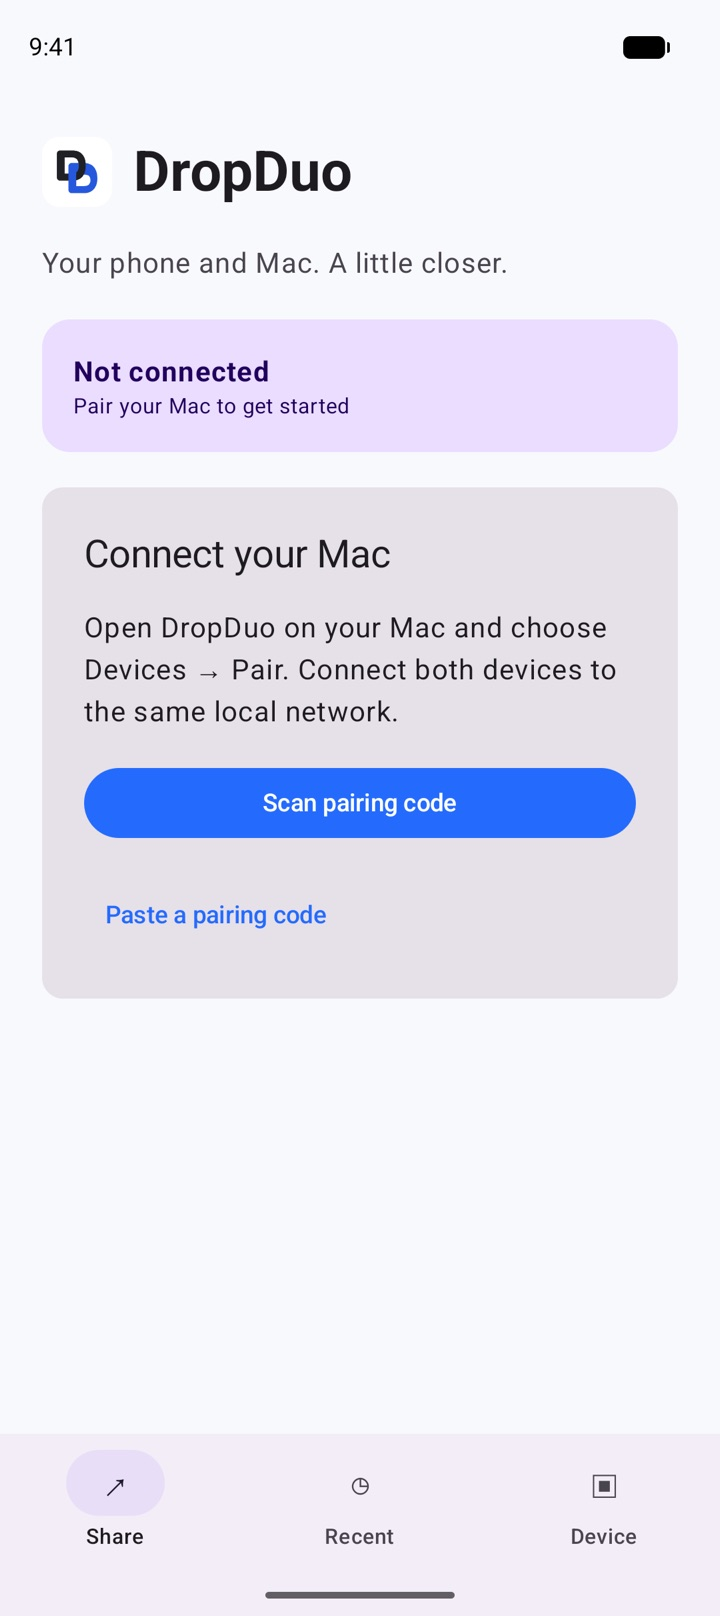
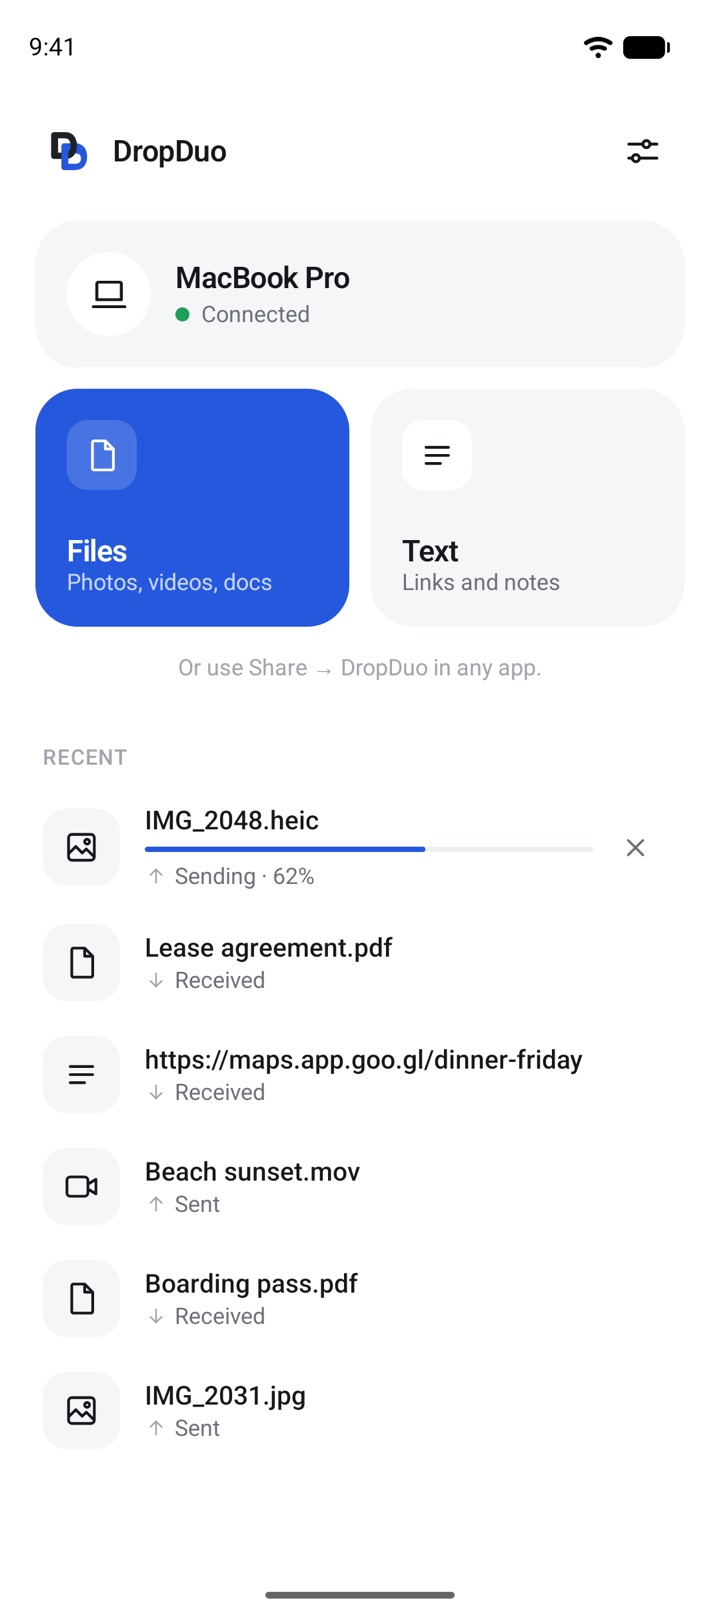
docs: show the redesigned Android app on the website
Replace the single phone with two light-theme screens from the new
Android UI: pairing in front, home behind.

diff --git a/apps/web/styles.css b/apps/web/styles.css
@@ -281,10 +281,6 @@ a { color: inherit; text-decoration: none; }
 :root[data-theme="dark"] .theme-toggle .theme-toggle__sun { opacity: 1; transform: none; }
 :root[data-theme="dark"] .theme-toggle .theme-toggle__moon { opacity: 0; transform: rotate(90deg) scale(0.5); }
 
-.shot--dark { display: none; }
-:root[data-theme="dark"] .shot--light { display: none; }
-:root[data-theme="dark"] .shot--dark { display: block; }
-
 ::view-transition-old(root),
 ::view-transition-new(root) { animation-duration: 0.45s; }
 
@@ -582,6 +578,15 @@ a { color: inherit; text-decoration: none; }
 }
 
 .pair__device { display: grid; place-items: center; }
+
+/* Two light-theme screens: pairing in front, home behind. */
+.phones {
+  display: grid;
+  width: min(100%, 460px);
+}
+.phones .phone { grid-area: 1 / 1; width: 68%; }
+.phone--back { justify-self: end; align-self: start; }
+.phone--front { justify-self: start; align-self: end; margin-top: 72px; }
 
 .phone {
   width: min(100%, 310px);
@@ -958,7 +963,7 @@ a.download__version:hover { color: var(--accent-text); text-decoration: underlin
   .assurances { flex-direction: column; align-items: center; }
   .pair__grid { grid-template-columns: 1fr; }
   .pair__device { order: 2; }
-  .phone { width: min(78%, 300px); }
+  .phones { width: min(100%, 400px); }
   .duo { grid-template-columns: 1fr; border-radius: 24px; }
   .half, .half--android { min-height: 0; padding: 36px 28px 32px; }
   .half--mac { padding-bottom: 64px; }

diff --git a/apps/web/index.html b/apps/web/index.html
@@ -163,9 +163,13 @@
     <section class="pair" id="pair" aria-labelledby="pair-title">
       <div class="wrap pair__grid">
         <div class="pair__device reveal">
-          <div class="phone">
-            <img class="shot--light" src="assets/img/android-home.jpg" width="720" height="1616" loading="lazy" decoding="async" alt="DropDuo on Android, ready to scan a pairing code from your Mac.">
-            <img class="shot--dark" src="assets/img/android-home-dark.jpg" width="720" height="1616" loading="lazy" decoding="async" alt="DropDuo on Android, ready to scan a pairing code from your Mac.">
+          <div class="phones">
+            <div class="phone phone--back">
+              <img src="assets/img/android-home.jpg" width="720" height="1616" loading="lazy" decoding="async" alt="DropDuo on Android, connected to a MacBook Pro with recent transfers listed.">
+            </div>
+            <div class="phone phone--front">
+              <img src="assets/img/android-pair.jpg" width="720" height="1616" loading="lazy" decoding="async" alt="DropDuo on Android, ready to scan a pairing code from your Mac.">
+            </div>
           </div>
         </div>
         <div class="pair__copy">
